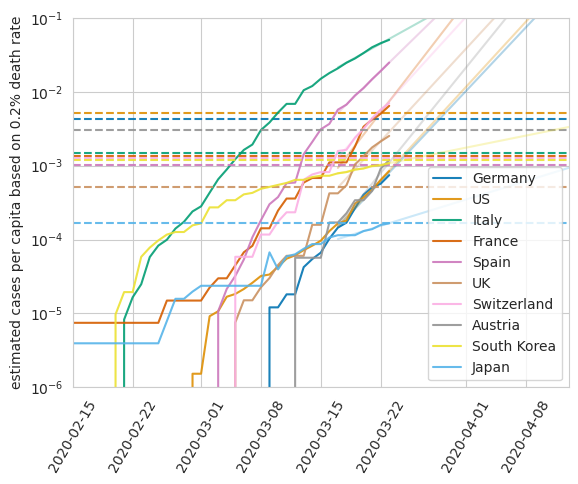
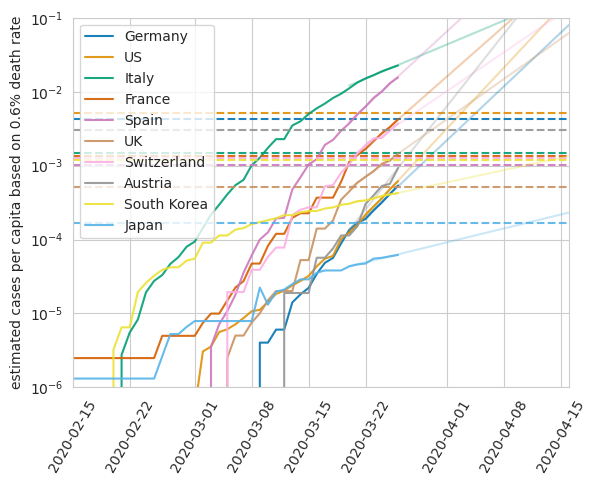
Modify update.sh and adapt some parameters to the current situation

diff --git a/kovid.py b/kovid.py
@@ -243,14 +243,17 @@ def plot_new_infected(data, country_list, avg=5, date_lim=None, scale='log', for
     fig = plt.figure()
     ax = fig.add_subplot()
 
+    icu_limit_max = 0
+
     for c in country_list.keys():
         ts = get_new_infections_by_country(c, data)
 
         nr_inhabitants = country_list[c][0]
 
-        icu_time = 7  # days
+        icu_time = 18  # days
         icu_limit = get_icu_limit(icus_per_capita=country_list[c][1],
                                   duration_of_stay=icu_time)
+        icu_limit_max = icu_limit if icu_limit > icu_limit_max else icu_limit_max
 
         # Derive date limits if none are given
         if date_lim is None:
@@ -282,6 +285,8 @@ def plot_new_infected(data, country_list, avg=5, date_lim=None, scale='log', for
     ax.grid(True)
     if scale == 'log':
         ax.set_yscale('log')
+    else:
+        ax.set_ylim([0, 1.3*icu_limit_max])
     if len(country_list) == 1:
         ax.set_ylabel('new infections per capita ({})'.format(country_list[0]))
         fname = '{}_new_infections.png'.format(country_list[0].replace(' ', '_').lower())
@@ -422,7 +427,7 @@ def plot_estimated_from_deaths(data, country_list, avg=5, date_lim=None,
         deaths = np.array(ts.Deaths)
 
         # 5 days incubation + 2 days test delay
-        death_rate = 0.002
+        death_rate = 0.006
         estimated = deaths/death_rate/nr_inhabitants
 
         # Extrapolate based on the last 7 days
@@ -474,7 +479,7 @@ def plot_deathrate(data, country_list, avg=5, date_lim=None, scale='log'):
         # for every dead we should have 6 ICU bed required
         icu_limit_in_deaths = get_icu_limit(icus_per_capita=country_list[c][1],
                                             icu_rate=6.,
-                                            duration_of_stay=7)
+                                            duration_of_stay=18)
 
         # Derive date limits if none are given
         if date_lim is None:
@@ -601,7 +606,7 @@ if __name__ == '__main__':
         sbn.set_palette(sbn.color_palette(palette="colorblind", n_colors=len(country_list), desat=1))
 
         # Cases
-        plot_new_infected(data, country_list, avg=5, date_lim=date_lim, forecast=forecast, ext_base=extrapolation_base)
+        plot_new_infected(data, country_list, avg=5, date_lim=date_lim, forecast=forecast, ext_base=extrapolation_base, scale='log')
         plot_confirmed(data, country_list, avg=5, date_lim=date_lim, forecast=forecast, ext_base=extrapolation_base)
         plot_estimated_from_deaths(data, country_list, avg=5, date_lim=date_lim, forecast=forecast, ext_base=extrapolation_base)
         # plot_estimated_from_delay(data, country_list, avg=5, date_lim=date_lim, forecast=forecast, ext_base=extrapolation_base)
